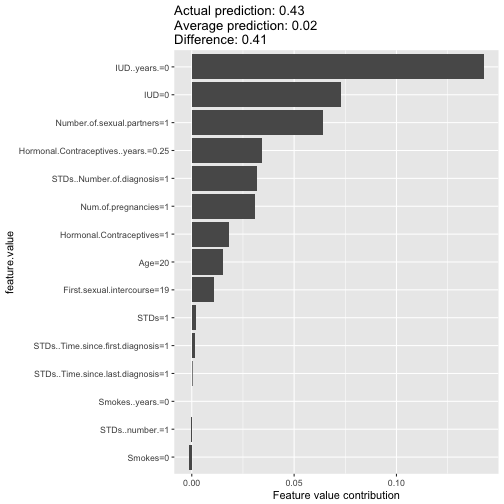
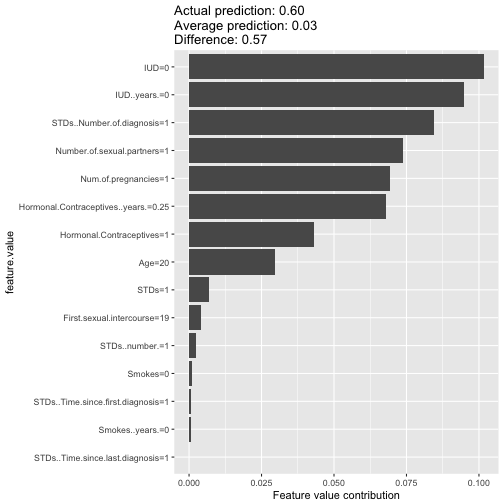
leanpub-tests

diff --git a/manuscript/05.6-agnostic-shapley.md b/manuscript/05.6-agnostic-shapley.md
@@ -94,25 +94,25 @@ Figure \@ref(fig:shapley-cervical-plot) visualizes the Shapley values, that are 
 |STDs..Time.since.first.diagnosis |  1.00|
 |STDs..Time.since.last.diagnosis  |  1.00|
 
-![Feature value contributions for woman 326 in the cervical cancer dataset. With a prediction of 0.43, this woman's cancer probability is 0.41 above the average prediction of 0.02. The feature value that increased the probability the most is the number of diagnosed STDs. The feature contributions sum up to the difference of actual and average prediction (0.41).](images/shapley-cervical-plot-1.png)
+![Feature value contributions for woman 326 in the cervical cancer dataset. With a prediction of 0.60, this woman's cancer probability is 0.57 above the average prediction of 0.03. The feature value that increased the probability the most is the number of diagnosed STDs. The feature contributions sum up to the difference of actual and average prediction (0.57).](images/shapley-cervical-plot-1.png)
 
-|feature                          |        phi|
-|:--------------------------------|----------:|
-|Age                              |  0.0153333|
-|First.sexual.intercourse         |  0.0643333|
-|Hormonal.Contraceptives          |  0.0110000|
-|Hormonal.Contraceptives..years.  |  0.0310000|
-|IUD                              | -0.0013333|
-|IUD..years.                      |  0.0000000|
-|Num.of.pregnancies               |  0.0183333|
-|Number.of.sexual.partners        |  0.0343333|
-|STDs                             |  0.0730000|
-|STDs..Number.of.diagnosis        |  0.1426667|
-|STDs..Time.since.first.diagnosis |  0.0020000|
-|STDs..Time.since.last.diagnosis  | -0.0003333|
-|STDs..number.                    |  0.0320000|
-|Smokes                           |  0.0013333|
-|Smokes..years.                   |  0.0003333|
+|feature                          |       phi|
+|:--------------------------------|---------:|
+|Age                              | 0.0296667|
+|First.sexual.intercourse         | 0.0736667|
+|Hormonal.Contraceptives          | 0.0040000|
+|Hormonal.Contraceptives..years.  | 0.0693333|
+|IUD                              | 0.0010000|
+|IUD..years.                      | 0.0006667|
+|Num.of.pregnancies               | 0.0430000|
+|Number.of.sexual.partners        | 0.0680000|
+|STDs                             | 0.1016667|
+|STDs..Number.of.diagnosis        | 0.0950000|
+|STDs..Time.since.first.diagnosis | 0.0070000|
+|STDs..Time.since.last.diagnosis  | 0.0023333|
+|STDs..number.                    | 0.0843333|
+|Smokes                           | 0.0006667|
+|Smokes..years.                   | 0.0000000|
 
 
 
@@ -140,22 +140,22 @@ Figure \@ref(fig:shapley-bike-plot) shows the explanations created for the  Rand
 |windspeed       |16.62605        |
 |days_since_2011 |284             |
 
-![Feature value contributions for instance 285. With a predicted 2406 rented bikes, this day is -2100 below the average prediction of 4507. The feature values that had the most negative effects were the weather situation, humidity and the time trend (years since 2011). The temperature on that day had a positive effect compared to the average prediction. The feature contributions sum up to the difference of actual and average prediction (-2100).](images/shapley-bike-plot-1.png)
+![Feature value contributions for instance 285. With a predicted 2565 rented bikes, this day is -1943 below the average prediction of 4508. The feature values that had the most negative effects were the weather situation, humidity and the time trend (years since 2011). The temperature on that day had a positive effect compared to the average prediction. The feature contributions sum up to the difference of actual and average prediction (-1943).](images/shapley-bike-plot-1.png)
 
 
 |feature         |     phi|
 |:---------------|-------:|
-|days_since_2011 | -704.18|
-|holiday         |    0.31|
-|hum             | -982.84|
-|mnth            |  -12.53|
-|season          |   13.64|
-|temp            |  261.10|
-|weathersit      | -864.92|
-|weekday         |  -77.35|
-|windspeed       |  -55.25|
-|workingday      |   -0.69|
-|yr              | -132.19|
+|days_since_2011 | -552.35|
+|holiday         |   -0.71|
+|hum             | -763.66|
+|mnth            |   20.02|
+|season          |   28.00|
+|temp            |  427.89|
+|weathersit      | -885.00|
+|weekday         |  -28.94|
+|windspeed       |  -99.00|
+|workingday      |   -8.82|
+|yr              | -249.17|
 
 Be careful to interpret the Shapley value correctly:
 The Shapley value is the average contribution of a feature value towards the prediction in different coalitions.
